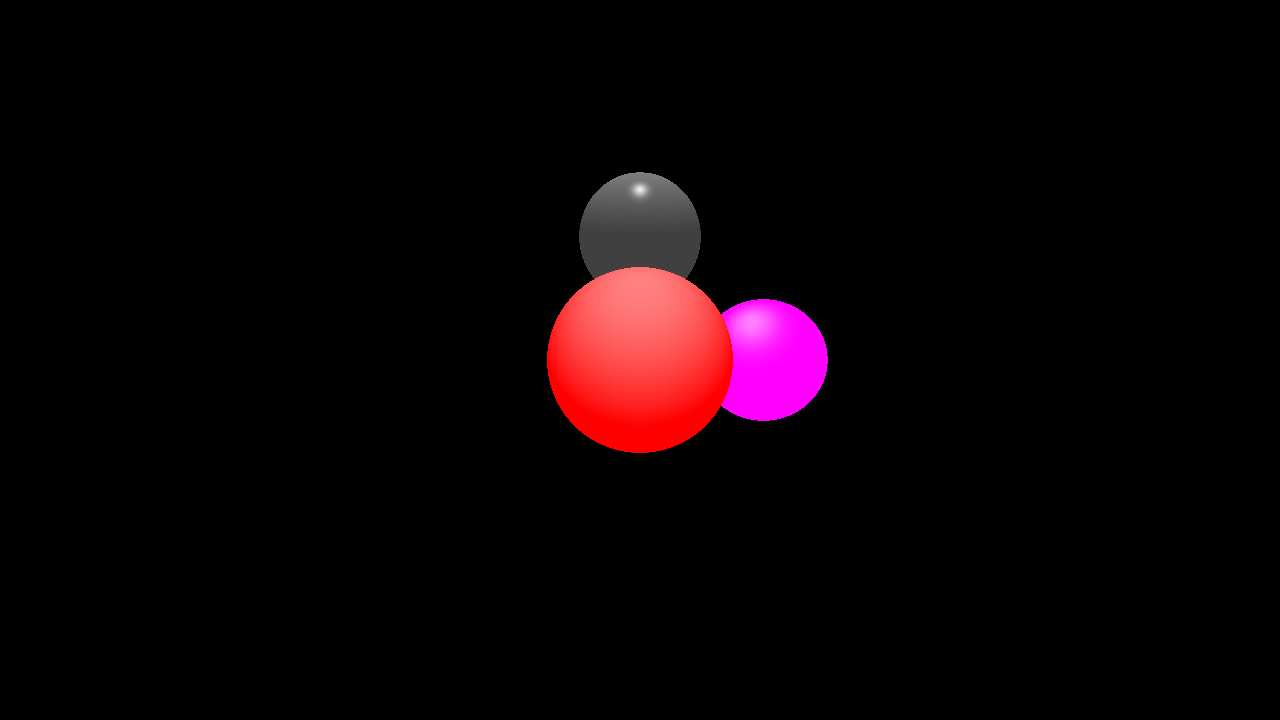
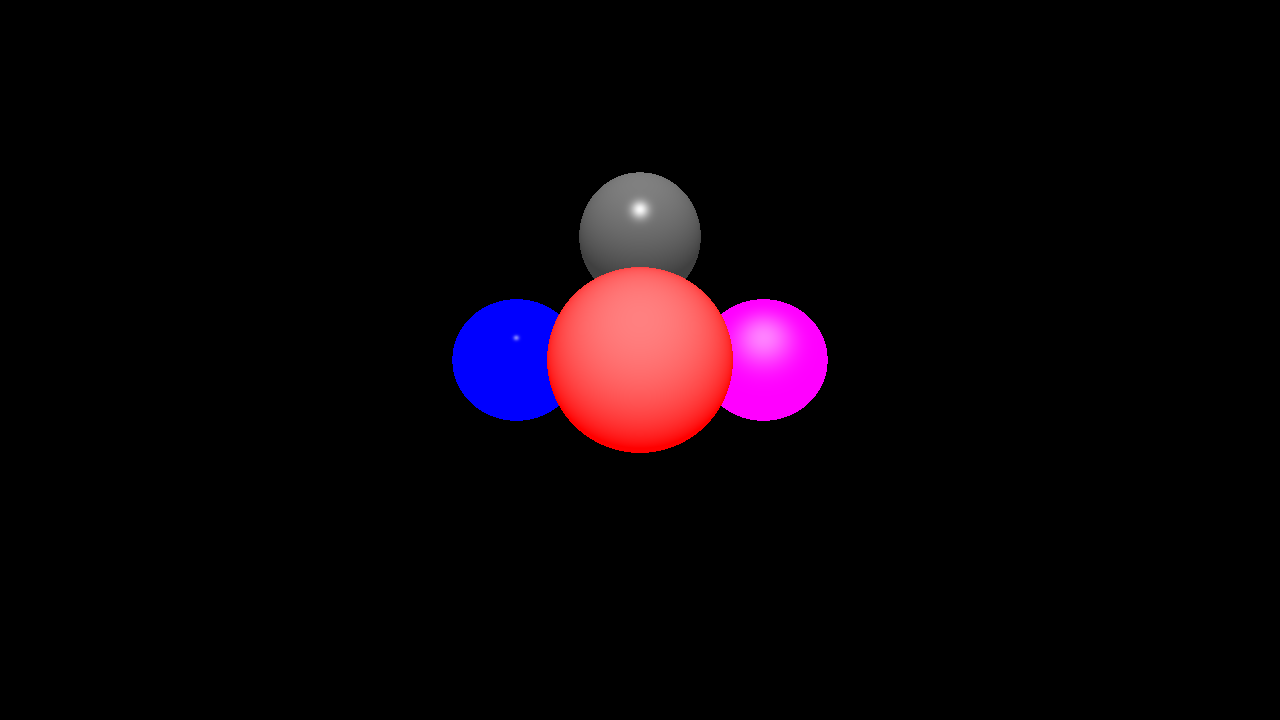
Final commit. See project2 README for notes.

Changed region(s): [[0.3438, 0.3972, 0.625, 0.6111], [0.4375, 0.2444, 0.5625, 0.3972]]

diff --git a/Project2/src/RayTracer.java b/Project2/src/RayTracer.java
@@ -23,7 +23,7 @@ public class RayTracer {
     public static final int D = 1; // Distance from viewpoint to image plane
     public static final Vector3d U = new Vector3d(1,0,0);
     public static final Vector3d V = new Vector3d(0,1,0);
-    public static final Vector3d W = new Vector3d(0,0,-1);
+    public static final Vector3d W = new Vector3d(0,0,1);
     public static final Vector3d VIEWPOINT = new Vector3d(0,0,0);
 
     public static void main(String args[]) {
@@ -35,7 +35,7 @@ public class RayTracer {
         BufferedImage img = new BufferedImage(WIDTH,HEIGHT,BufferedImage.TYPE_INT_RGB);
 
         // Iterate through each pixel left to right, then top to bottom
-        for(int j=0;j<HEIGHT;j++) {
+        for(int j=HEIGHT-1;j>=0;j--) {
             for(int i=0;i<WIDTH;i++) {
                 Ray viewRay = computeViewingRay(i,j);
                 HitRecord hit = surfaces.hit(viewRay);
@@ -60,11 +60,8 @@ public class RayTracer {
 
     }
 
-    /**
+    /*
      * Helper method to compute the viewing ray for each pixel
-     * @param i current pixel x value
-     * @param j current pixel y value
-     * @return
      */
     private static Ray computeViewingRay(int i, int j) {
         double u = L + (R - L)*(i + 0.5)/WIDTH;
@@ -94,12 +91,13 @@ public class RayTracer {
      * Hard-coded scene
      */
     private static Scene createScene() {
-        Light lightSource = new Light(new Vector3d(0,-3,2), Color.WHITE);
+        Light lightSource = new Light(new Vector3d(0,-4,2), Color.WHITE);
         Scene scene = new Scene(lightSource);
 
-        scene.add(new Sphere(new Vector3d(0,0,2),.5, new Material(1,Color.RED)));
-        scene.add(new Sphere(new Vector3d(1,0,3),.5, new Material(10,Color.MAGENTA)));
-        scene.add(new Sphere(new Vector3d(0,-1,3), .5, new Material(100, Color.DARK_GRAY)));
+        scene.add(new Sphere(new Vector3d(0,0,-2),.5, new Material(1,Color.RED)));
+        scene.add(new Sphere(new Vector3d(1,0,-3),.5, new Material(10,Color.MAGENTA)));
+        scene.add(new Sphere(new Vector3d(0,-1,-3), .5, new Material(100, Color.DARK_GRAY)));
+        scene.add(new Sphere(new Vector3d(-1,0,-3), .5, new Material(1000, Color.BLUE)));
 
         return scene;
     }
@@ -187,10 +185,10 @@ public class RayTracer {
             blue = 255;
         }
 
+        // Convert these to int values
         int redInt = (int) Math.round(red);
         int greenInt = (int) Math.round(green);
         int blueInt = (int) Math.round(blue);
-        System.out.println(redInt + " " + greenInt + " "+ blueInt);
 
         // Now we just need to compute the final color
         Color color = new Color(redInt, greenInt, blueInt);
